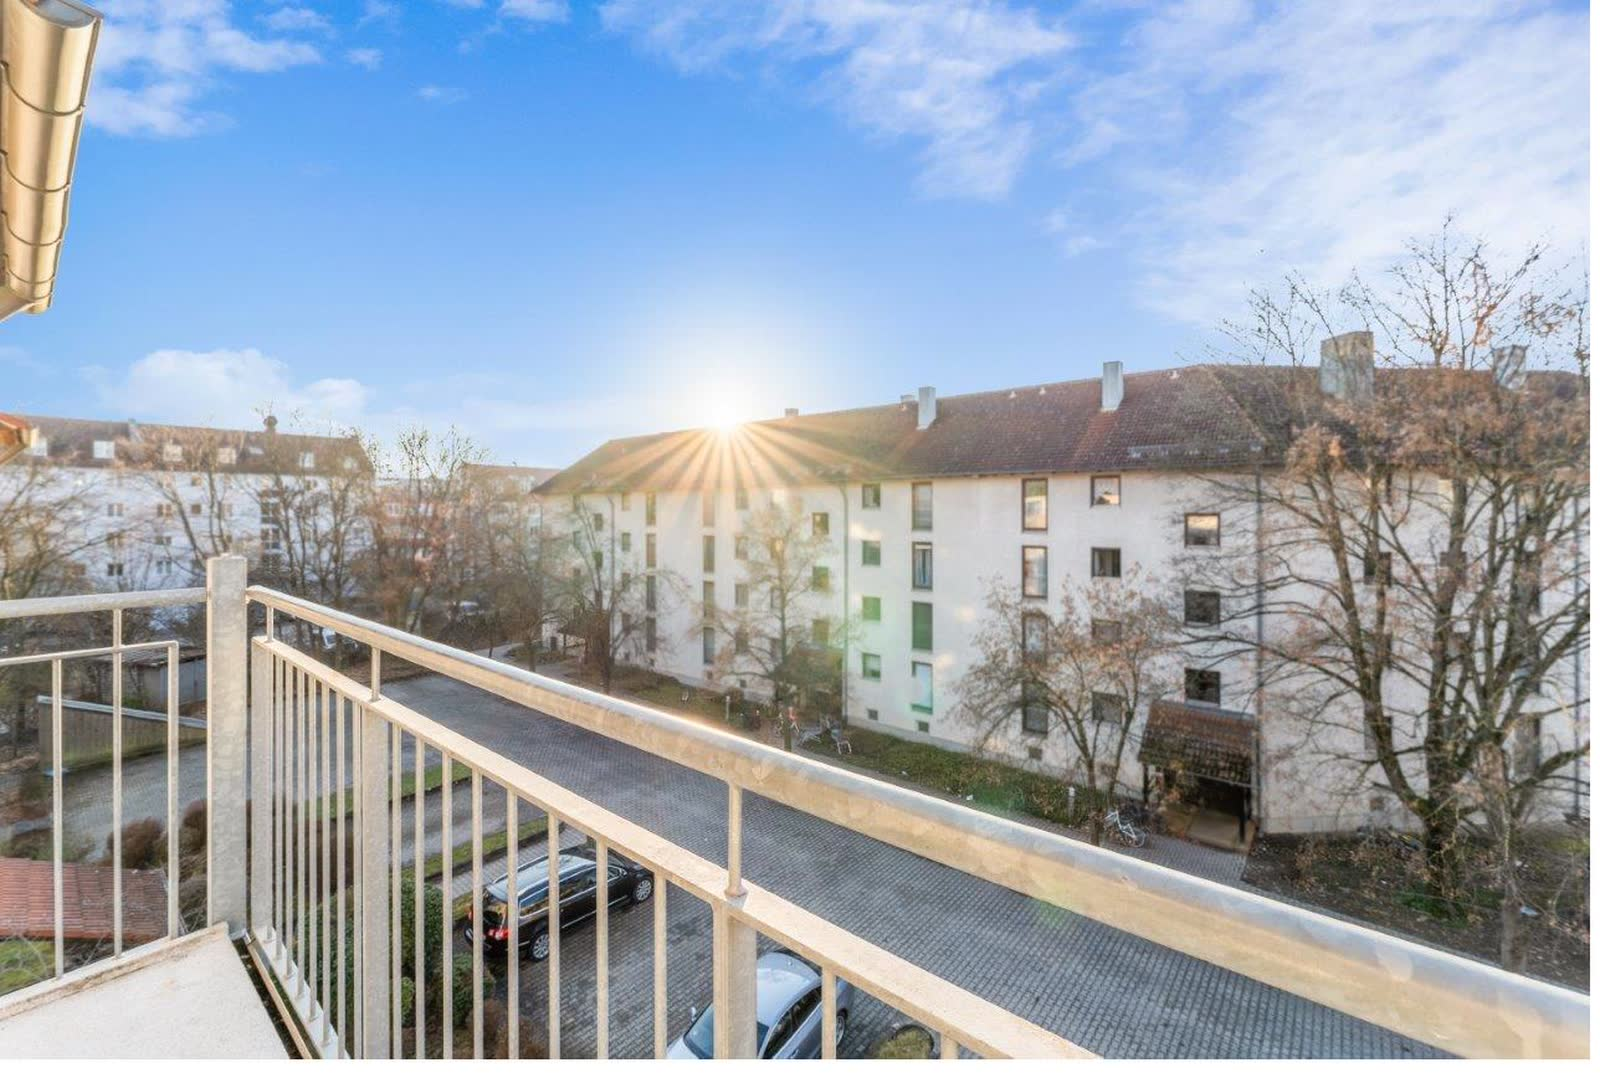
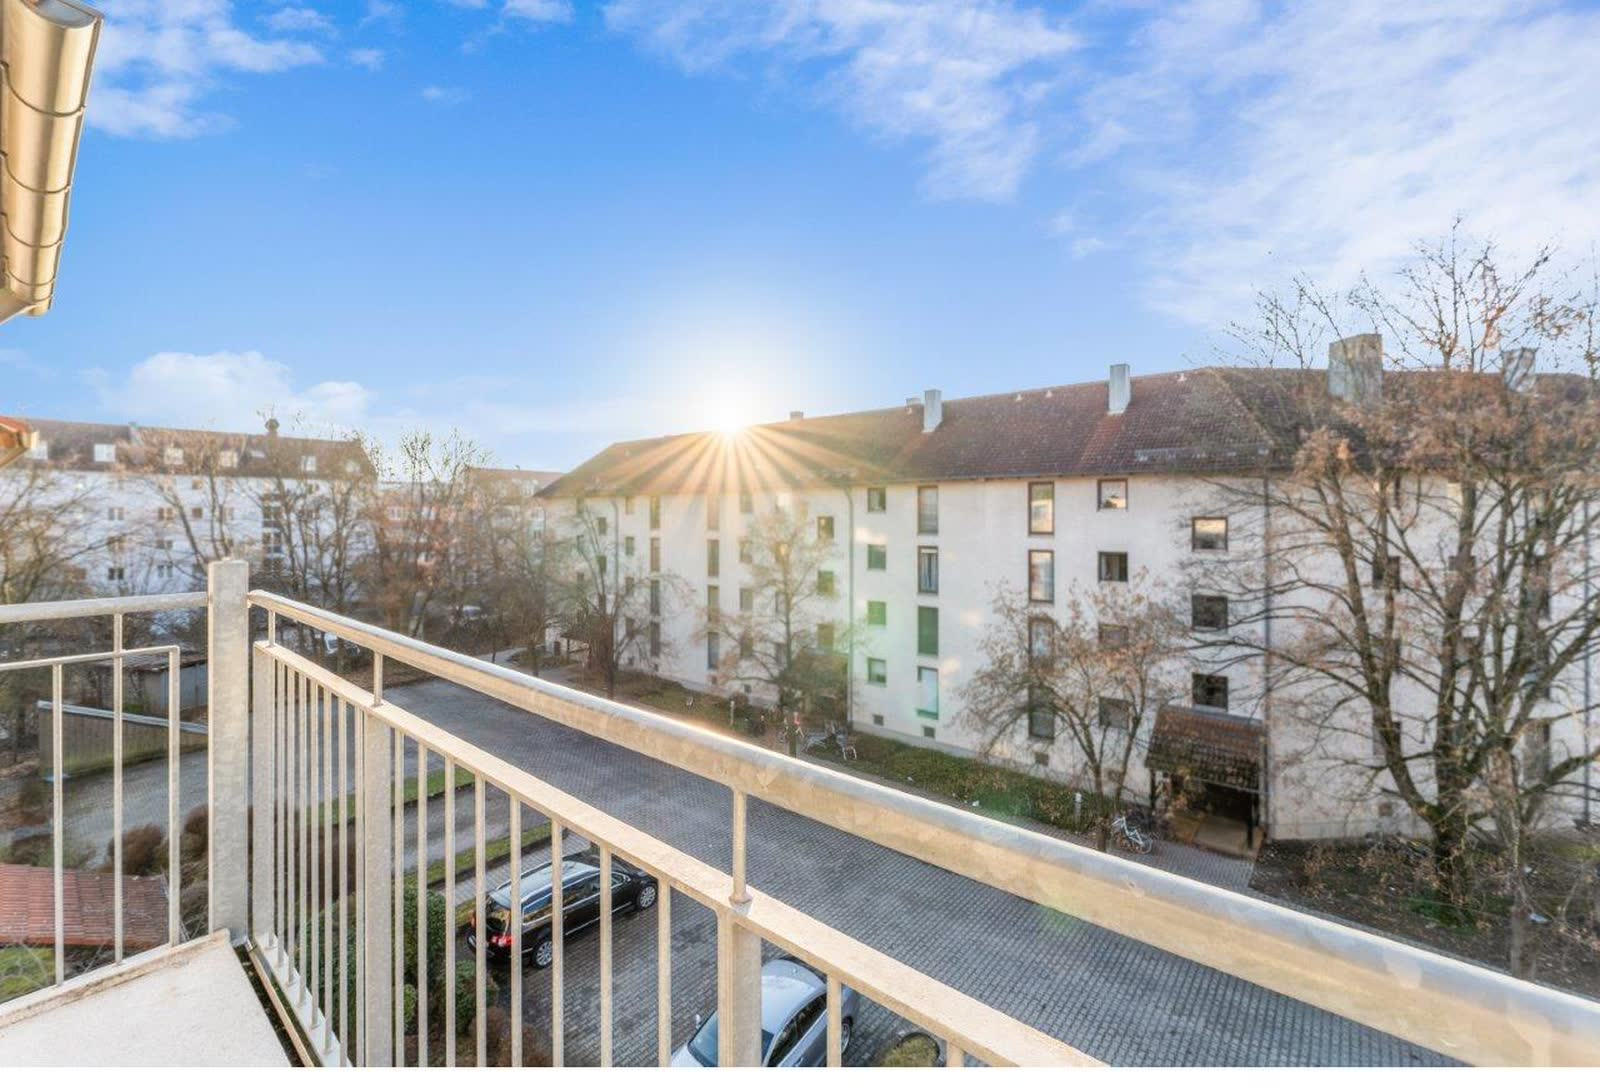
Archiv neu gesetzt und weiße Ränder aus allen Bildern entfernt
Die Bildspalte war 424 px breit, während rechts 383 px tot lagen und die
dritte Rasterspalte leer blieb. Jetzt steht die Beschriftung rechtsbündig
links neben dem Bild und die Leere liegt rechts davon, wie bei den
Referenzen. Das Bild wächst dabei von 424 auf 616 px.

Beim Vergrößern kam ein Fehler heraus, den die kleine Darstellung verdeckt
hatte: 19 der 21 Projektbilder trugen einen reinweißen Rand von 26 px
rechts, bei den größeren 12 px. Der stammt aus dem Originalbestand und war
beim Hochrechnen mitgewandert. Alle Bilder sind neu zugeschnitten und
gerechnet, auch die acht Galeriebilder vom Zeisigweg mit 8 px Rand.

Dazu reagieren Beschriftung und Bild beim Überfahren jetzt gemeinsam,
statt dass nur das Bild zoomt.

Changed region(s): [[0.0938, 0.2143, 1.0, 0.9796], [0.9688, 0.0, 1.0, 0.1837], [0.5625, 0.3673, 0.5938, 0.398]]

diff --git a/index.html b/index.html
@@ -173,14 +173,23 @@ section{padding:clamp(90px,13vh,170px) var(--gut);position:relative;scroll-margi
 .filters button:hover{color:var(--ink)}
 
 .works{list-style:none;margin:0;padding:0}
-.work{display:grid;grid-template-columns:minmax(0,1fr) minmax(0,1.05fr) minmax(0,.8fr);
-  gap:clamp(18px,3vw,44px);align-items:start;padding:clamp(26px,4vh,52px) 0;
+/* Anordnung wie bei den Referenzen: rechtsbündige Beschriftung, daneben das
+   Bild, und die Leere liegt rechts davon statt zwischen den beiden */
+.work{display:grid;grid-template-columns:minmax(0,.8fr) minmax(0,1.35fr) minmax(0,.5fr);
+  gap:clamp(18px,3vw,44px);align-items:start;padding:clamp(30px,5vh,64px) 0;
   border-top:1px solid var(--accent-muted)}
 .work:last-child{border-bottom:1px solid var(--accent-muted)}
 .work.hide{display:none}
-.work .label{text-align:right}
-.work .no{font-family:var(--mono);font-size:12px;letter-spacing:.12em;color:var(--text-secondary);display:block;margin-bottom:.9em}
-.work h3{font-size:clamp(21px,2.3vw,34px)}
+.work .label{text-align:right;order:1}
+.work figure{order:2}
+.work .no{font-family:var(--mono);font-size:12px;letter-spacing:.12em;color:var(--text-secondary);
+  display:block;margin-bottom:.9em;transition:color .5s var(--ease)}
+/* Beschriftung und Bild reagieren gemeinsam, sonst zerfaellt die Zeile in zwei Haelften */
+.work .label{transition:transform .7s var(--ease)}
+.work:hover .label{transform:translateX(10px)}
+.work:hover .no{color:var(--accent)}
+@media (prefers-reduced-motion:reduce){.work:hover .label{transform:none}}
+.work h3{font-size:clamp(22px,2.5vw,38px)}
 .work .meta{font-family:var(--mono);font-size:12px;letter-spacing:.1em;text-transform:uppercase;
   color:var(--text-secondary);margin-top:1em;display:block}
 .work .status{color:var(--accent)}
